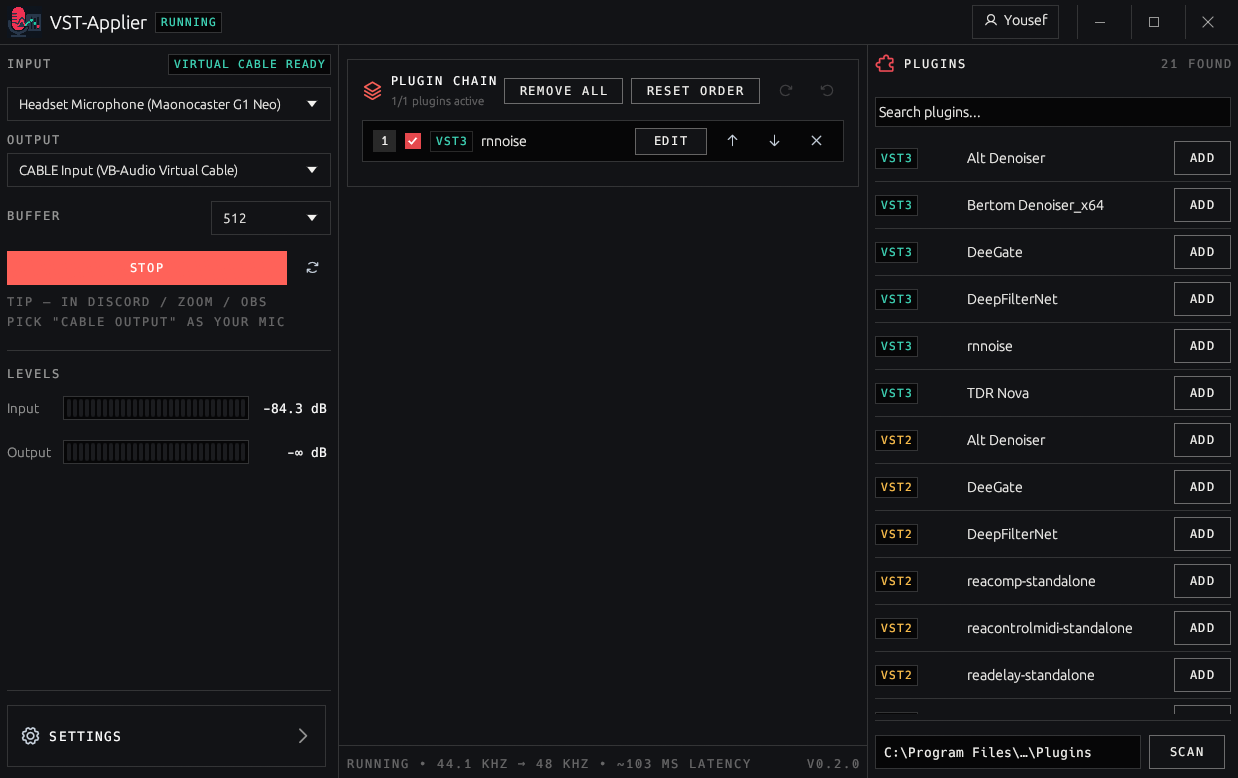
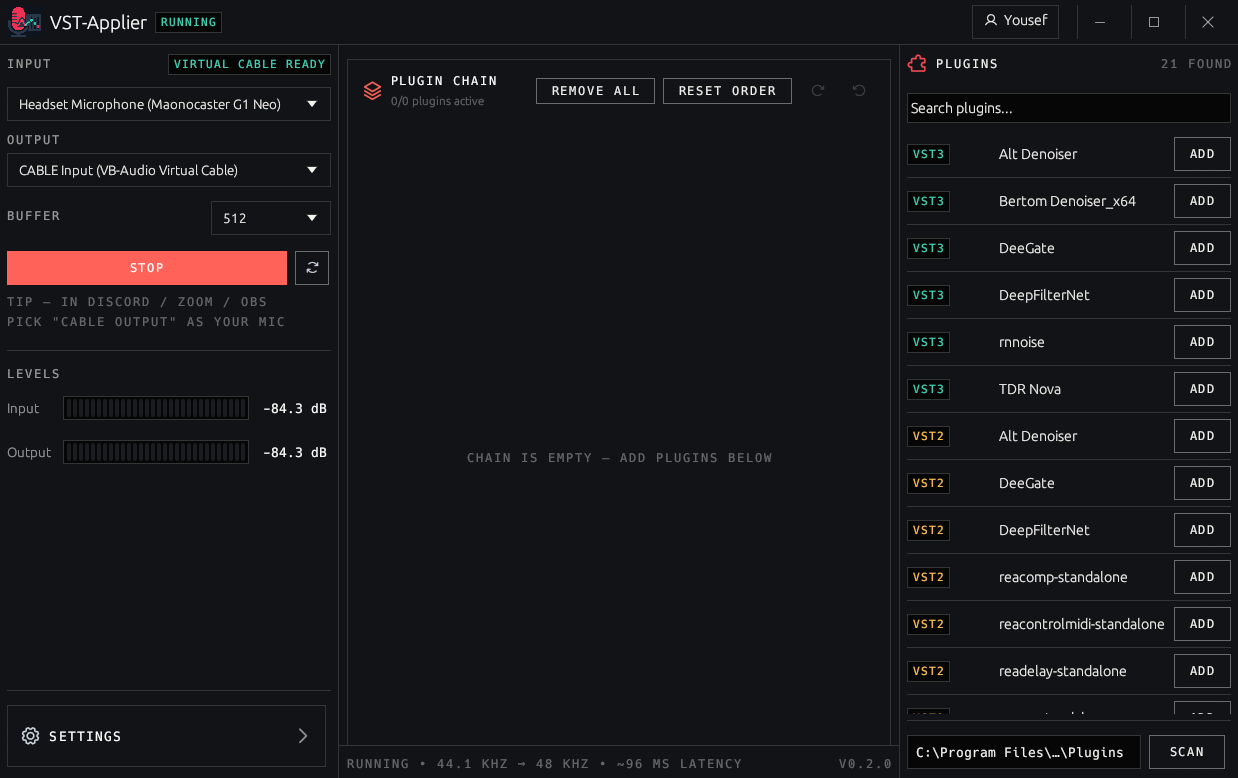
ui: tighter gap under PLUGINS header (10->6); refresh beside STOP gets a persistent hairline frame (glyph_button_boxed 34x34); plugins rail opens at 340 (was 372) with truncating names

diff --git a/src/main.rs b/src/main.rs
@@ -1837,7 +1837,7 @@ impl eframe::App for App {
                             }
                         });
                     }
-                    if icons::glyph_button(
+                    if icons::glyph_button_boxed(
                         ui,
                         icons::Glyph::Refresh,
                         "Refresh device lists",
@@ -1991,7 +1991,7 @@ impl eframe::App for App {
         // folder). One Scan button, pinned at the bottom.
         egui::SidePanel::right("library")
             .resizable(true)
-            .default_width(372.0)
+            .default_width(340.0)
             .width_range(320.0..=480.0)
             .show(ctx, |ui| {
                 let top = ui.next_widget_position().y;
@@ -2006,7 +2006,7 @@ impl eframe::App for App {
                         },
                     );
                 });
-                ui.add_space(10.0);
+                ui.add_space(6.0);
                 let sw = ui.available_width();
                 ui.add_sized(
                     [sw, 30.0],
@@ -2061,11 +2061,15 @@ impl eframe::App for App {
                                             }
                                         });
                                         ui.add_space(4.0);
-                                        ui.label(
-                                            egui::RichText::new(&c.name)
-                                                .size(14.0)
-                                                .color(theme::INK),
+                                        let name_resp = ui.add(
+                                            egui::Label::new(
+                                                egui::RichText::new(&c.name)
+                                                    .size(14.0)
+                                                    .color(theme::INK),
+                                            )
+                                            .truncate(),
                                         );
+                                        name_resp.on_hover_text(&c.name);
                                         ui.with_layout(
                                             egui::Layout::right_to_left(
                                                 egui::Align::Center,

diff --git a/src/icons.rs b/src/icons.rs
@@ -142,6 +142,42 @@ pub fn glyph_button(ui: &mut Ui, kind: Glyph, tip: &str) -> egui::Response {
     resp.on_hover_text(tip)
 }
 
+/// `glyph_button` with a persistent hairline frame — for icon actions
+/// that sit next to real buttons and need a visible box at rest (the
+/// floating glyph next to STOP read as unanchored).
+pub fn glyph_button_boxed(ui: &mut Ui, kind: Glyph, tip: &str) -> egui::Response {
+    let (rect, resp) = ui.allocate_exact_size(Vec2::new(34.0, 34.0), egui::Sense::click());
+    let p = ui.painter();
+    let invert = resp.hovered() && resp.enabled();
+    if resp.is_pointer_button_down_on() {
+        p.rect_filled(rect, egui::CornerRadius::ZERO, Color32::from_white_alpha(120));
+    } else if invert {
+        p.rect_filled(rect, egui::CornerRadius::ZERO, Color32::WHITE);
+    } else {
+        p.rect_stroke(
+            rect,
+            egui::CornerRadius::ZERO,
+            egui::Stroke::new(1.0_f32, crate::theme::LINE_STRONG),
+            egui::StrokeKind::Inside,
+        );
+    }
+    let color = if !resp.enabled() {
+        Color32::from_gray(110)
+    } else if invert {
+        Color32::from_rgb(0x0b, 0x0b, 0x0c)
+    } else {
+        MIST
+    };
+    p.text(
+        rect.center(),
+        egui::Align2::CENTER_CENTER,
+        glyph_str(kind),
+        egui::FontId::proportional(14.5),
+        color,
+    );
+    resp.on_hover_text(tip)
+}
+
 /// Red enable/disable checkbox (reference style). Returns true on toggle.
 pub fn checkbox_red(ui: &mut Ui, checked: &mut bool) -> bool {
     let (rect, resp) = ui.allocate_exact_size(Vec2::splat(18.0), egui::Sense::click());
